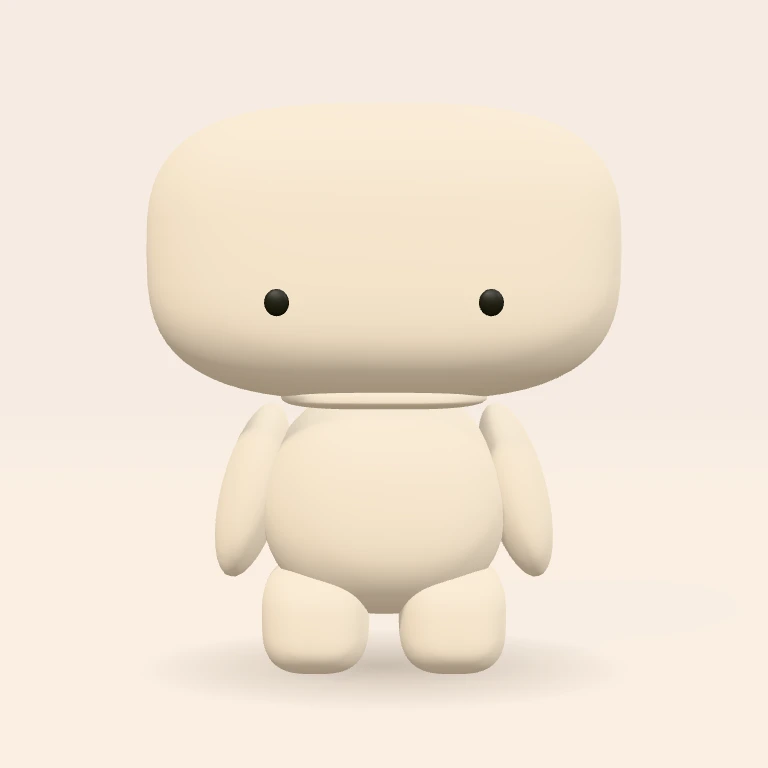
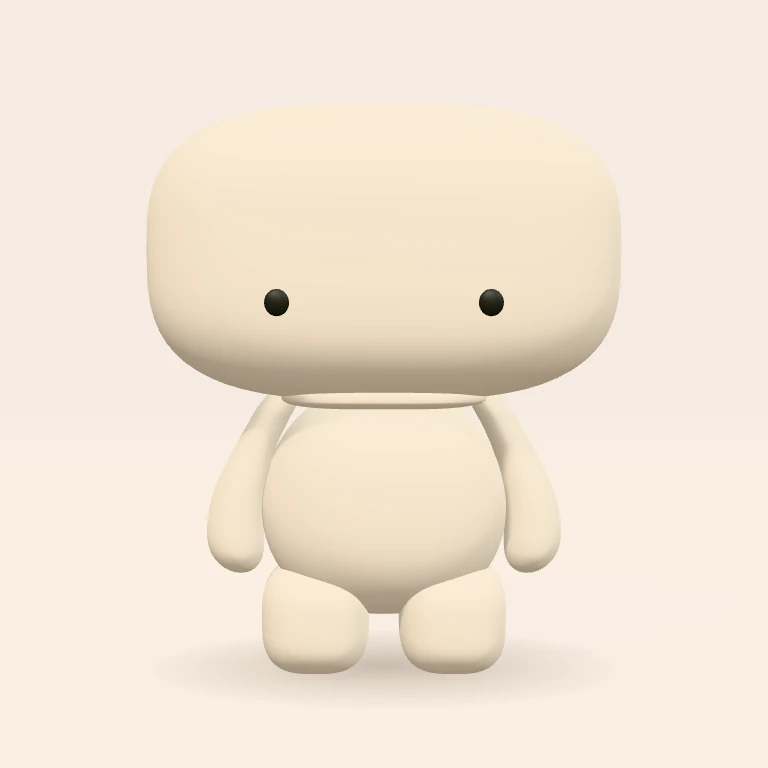
Sculpt Tofu arms and rounded hands to match the reference

diff --git a/visage/src/TofuModel.js b/visage/src/TofuModel.js
@@ -1,4 +1,5 @@
 import * as THREE from 'three';
+import {mergeVertices} from 'three/addons/utils/BufferGeometryUtils.js';
 import {TOFU_DEFAULTS, TOFU_EXPRESSIONS} from './tofuExpressions.js';
 
 /** A rounded solid, built once. Every point lies on a smooth Lp sphere. */
@@ -10,6 +11,30 @@ function softGeometry(exponent = .66, segments = 48, rings = 32) {
     position.setXYZ(i, power(position.getX(i)), power(position.getY(i)), power(position.getZ(i)));
   }
   geometry.computeVertexNormals();
+  return geometry;
+}
+
+/** Sculpted hanging arm: a narrow shoulder, curved forearm and round mitten tip.
+ * The profile is sampled once; poses rotate the finished solid at its shoulder.
+ */
+function armGeometry(side) {
+  const profile = new THREE.CatmullRomCurve3([
+    [0, -1.12], [.065, -1.105], [.125, -1.065], [.17, -.995],
+    [.19, -.9], [.188, -.74], [.17, -.52], [.14, -.3],
+    [.13, -.12], [.125, .015], [.09, .12], [0, .17],
+  ].map(([radius, y]) => new THREE.Vector3(radius, y, 0)));
+  const points = profile.getPoints(56).map(p => new THREE.Vector2(Math.max(0, p.x), p.y));
+  const lathe = new THREE.LatheGeometry(points, 32);
+  const vertices = lathe.attributes.position;
+  for (let i = 0; i < vertices.count; i++) {
+    const y = vertices.getY(i), t = (.17 - y) / 1.29;
+    // Bow away from the torso, then curl the hand back in towards the hip.
+    const curve = .38 * Math.sin(t * Math.PI * .65);
+    vertices.setXYZ(i, vertices.getX(i) + side * curve, y, vertices.getZ(i) * 1.12 + .055 * t);
+  }
+  // Weld the radial seam and cap vertices before smoothing the bent surface.
+  lathe.deleteAttribute('normal'); lathe.deleteAttribute('uv');
+  const geometry = mergeVertices(lathe); lathe.dispose(); geometry.computeVertexNormals();
   return geometry;
 }
 
@@ -39,9 +64,8 @@ export function createTofuModel() {
   });
   const arms = [-1, 1].map(side => {
     const arm = new THREE.Group(); arm.name = side < 0 ? 'Right arm' : 'Left arm';
-    arm.position.set(side * .73, 1.69, 0); root.add(arm);
-    const limb = mesh('Arm', round, skin, arm, [.21, .61, .25], [side * .1, -.49, .015]);
-    limb.rotation.z = side * .14;
+    arm.position.set(side * .62, 1.78, .015); root.add(arm);
+    mesh('Arm', armGeometry(side), skin, arm, [1, 1, 1], [0, 0, 0]);
     return arm;
   });
   const eyes = [-1, 1].map(side => mesh('Eye', round, ink, head, [.08, .085, .032], [side * .67, -.32, .78]));
@@ -112,11 +136,11 @@ export function createTofuModel() {
     openMouth.scale.set(.085 + Math.max(0, face.smile) * .065, .035 + opening * .14, .024);
     arms.forEach((arm, i) => {
       const side = i ? 1 : -1;
-      arm.position.x = side * .73 * c.bodyWidth;
-      let angle = side * .12;
+      arm.position.x = side * .62 * c.bodyWidth;
+      let angle = 0;
       const waving = c.pose === 'wave' && i === 1;
       if (waving) angle = 1.95 + (c.motion ? Math.sin(t * 5) * .14 : 0);
-      arm.position.z = ease(arm.position.z, waving ? .35 : 0);
+      arm.position.z = ease(arm.position.z, waving ? .35 : .015);
       if (c.pose === 'welcome') angle = side * 1.15;
       if (c.pose === 'dance') angle = side * (.6 + Math.sin(t * 3.5 + i) * .45);
       arm.rotation.z = ease(arm.rotation.z, angle);
